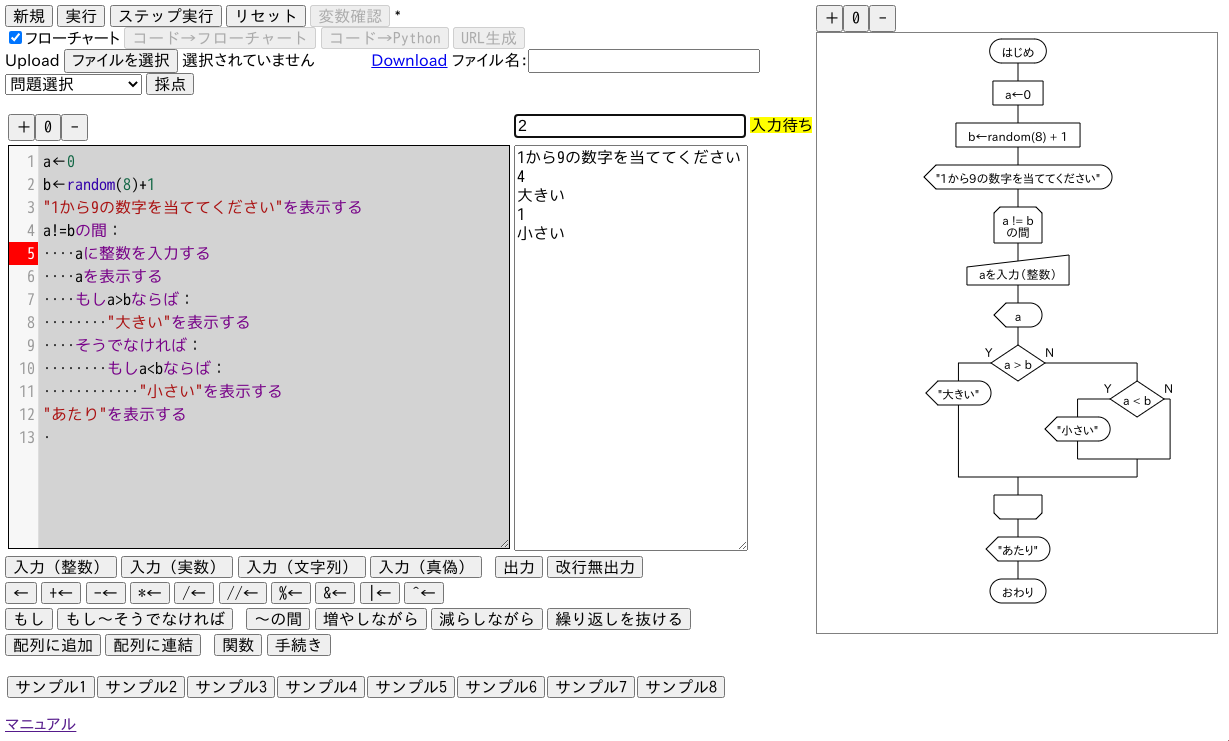
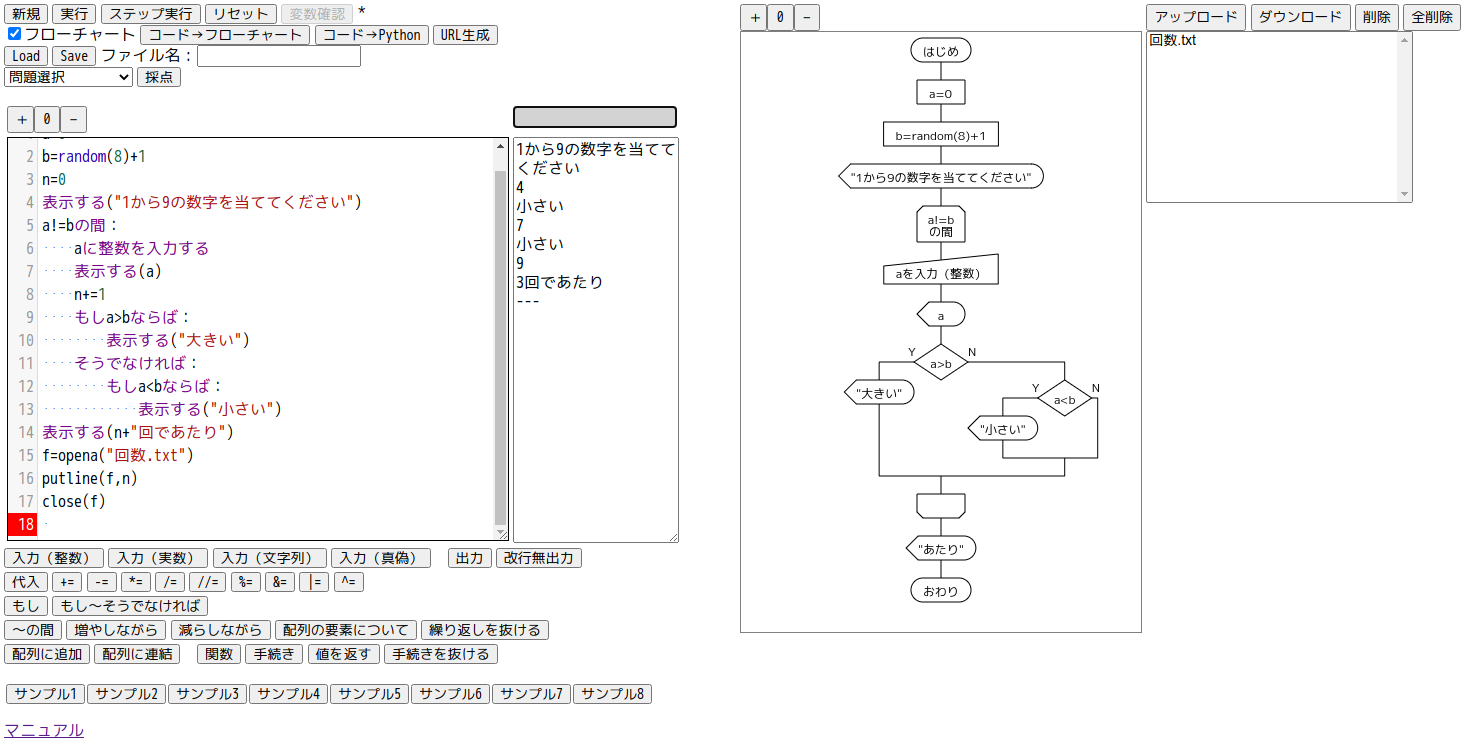
マニュアルの改訂。

diff --git a/manual/syntax.html b/manual/syntax.html
@@ -75,11 +75,12 @@
             <tr><td>exp(《実数》)</td><td>指数関数（底は自然対数の底）</td><td>exp(1)→2.718…</td></tr>
             <tr><td>pow(《実数》,《実数》)</td><td>累乗</td><td>pow(2,3)→8</td></tr>
             <tr><td>length(《文字列》)</td><td>文字列の長さ（文字数）</td><td>length("こんにちは")→5</td></tr>
-            <tr><td>length(《配列》)</td><td>配列の長さ</td><td>length({1,2,3,4,5})→5</td></tr>
+            <tr><td>length(《配列》)</td><td>配列の長さ</td><td>length([1,2,3,4,5])→5</td></tr>
             <tr><td>append(《文字列》,《文字列》)</td><td>文字列結合</td><td>append("Wa","PEN")→"WaPEN"</td></tr>
             <tr><td>substring(《文字列》,《開始位置》)</td><td>部分文字列（最後まで）</td><td>substring("こんにちは",2)→"にちは"</td></tr>
             <tr><td>substring(《文字列》,《開始位置》,《長さ》)</td><td>部分文字列（長さ指定）</td><td>substring("こんにちは",2,1)→"に"</td></tr>
-            <tr><td>split(《文字列》,《区切文字列》)</td><td>文字列分割</td><td>split("a:b:c:d",":")→"a","b],"c","d"（配列）</td></tr>
+            <tr><td>split(《文字列》)</td><td>文字列分割</td><td>split("abcd")→["a","b,"c","d"]（配列）</td></tr>
+            <tr><td>split(《文字列》,《区切文字列》)</td><td>文字列分割</td><td>split("a:b:c:d",":")→["a","b,"c","d"]（配列）</td></tr>
             <tr><td>extract(《文字列》,《区切文字列》,《番号》)</td><td>文字列分割（番号指定）</td><td>extract("a:b:c:d",":",2)→"c"</td></tr>
             <tr><td>insert(《文字列》,《位置》,《文字列》)</td><td>文字列挿入</td><td>insert("こんは",2,"にち")→"こんにちは"</td></tr>
             <tr><td>replace(《文字列》,《位置》,《長さ》,《文字列》)</td><td>文字列置換</td><td>replace("こんにちは",2,2,"ばん")→"こんばんは"</td></tr>
@@ -186,6 +187,21 @@ aに[7,8]を連結する
         </p>
         <p>"繰り返しを抜ける"命令で繰り返しから抜けることができる。</p>
         </div>
+        <h2>ファイル操作</h2>
+        <div class="part">
+        <table class="def_table" id="fileio">
+            <tr><th>関数・命令</th><th>意味</th></tr>
+            <tr><td>openr(《ファイル名》)</td><td>ファイルを読込用にオープンする。戻り値はファイル番号</td></tr>
+            <tr><td>openw(《ファイル名》)</td><td>ファイルを書込用にオープンする。戻り値はファイル番号</td></tr>
+            <tr><td>opena(《ファイル名》)</td><td>ファイルを追記用にオープンする。戻り値はファイル番号</td></tr>
+            <tr><td>getline(《ファイル番号》)</td><td>ファイルから1行読み込む。戻り値は文字列（改行含む）</td></tr>
+            <tr><td>getchar(《ファイル番号》)</td><td>ファイルから1文字読み込む。戻り値は文字列</td></tr>
+            <tr><td>putline(《ファイル番号》,《文字列》)</td><td>ファイルに文字列と改行を書き込む</td></tr>
+            <tr><td>putstr(《ファイル番号》,《文字列》)</td><td>ファイルに文字列と改行を書き込む</td></tr>
+            <tr><td>close(《ファイル番号》)</td><td>ファイルをクローズする</td></tr>
+        </table>
+        <p>書込・追記用ファイルはクローズしないと保存しないことに注意。</p>
+        </div>
         <h2>グラフィック関係などの命令</h2>
         <div class="part">
         <table class="def_table" id="function">
@@ -199,13 +215,13 @@ aに[7,8]を連結する
             <tr><td>線太さ設定(《太さ》)</td><td>gSetLineWidth</td><td></td></tr>
             <tr><td>文字サイズ設定(《サイズ》)</td><td>gSetTextSize</td><td></td></tr>
             <tr><td>文字描画(《文字列》,《x》,《y》)</td><td>gDrawText</td><td>(x,y)は文字列の左下の座標</td></tr>
-            <tr><td>点描画(《x1》,《y1》)</td><td>gDrawPoint</td><td></td></tr>
+            <tr><td>点描画(《x》,《y》)</td><td>gDrawPoint</td><td></td></tr>
             <tr><td>線描画(《x1》,《y1》,《x2》,《y2》)</td><td>gDrawLine</td><td></td></tr>
             <tr><td>矩形描画(《x》,《y》,《幅》,《高さ》)</td><td>gDrawBox</td><td>(x,y)は矩形の左上の座標</td></tr>
             <tr><td>矩形塗描画(《x》,《y》,《幅》,《高さ》)</td><td>gFillBox</td><td></td></tr>
-            <tr><td>円描画(《x》,《y》,《半径》)</td><td>gDrawCircle</td><td></td>(x,y)は中心の座標</tr>
+            <tr><td>円描画(《x》,《y》,《半径》)</td><td>gDrawCircle</td><td>(x,y)は中心の座標</td></tr>
             <tr><td>円塗描画(《x》,《y》,《半径》)</td><td>gFillCircle</td><td></td></tr>
-            <tr><td>楕円描画(《x》,《y》,《幅》,《高さ》)</td><td>gDrawOval</td><td></td>(x,y)は楕円に外接する長方形の左上の座標</tr>
+            <tr><td>楕円描画(《x》,《y》,《幅》,《高さ》)</td><td>gDrawOval</td><td>(x,y)は楕円に外接する長方形の左上の座標</td></tr>
             <tr><td>楕円塗描画(《x》,《y》,《幅》,《高さ》)</td><td>gFillOval</td><td></td></tr>
             <tr><td>弧描画(《x》,《y》,《幅》,《高さ》,《開始角》,《終了角》,《閉じ方》)</td><td>gDrawArc</td><td>(x,y)は楕円に外接する長方形の左上の座標<br>角度の単位は度<br>閉じ方は0:閉じない，1:弦，2:半径</td></tr>
             <tr><td>弧塗描画(《x》,《y》,《幅》,《高さ》,《開始角》,《終了角》,《閉じ方》)</td><td>gFillArc</td><td></td></tr>

diff --git a/manual/pypen.html b/manual/pypen.html
@@ -25,8 +25,8 @@
                 プログラムを編集したときはこのボタンを押さないとフローチャートが更新されません。
             </dd>
             <dt>コード→Python</dt><dd>プログラムをPythonに翻訳します。</dd>
-            <dt>Upload</dt><dd>「ファイルを選択」ボタンを押して，選んだファイルをプログラムとして読み込みます。</dd>
-            <dt>Download</dt><dd>「ファイル名」欄にファイル名（拡張子は除く）を書き込んでボタンを押すと，プログラムをダウンロードします。</dd>
+            <dt>Load</dt><dd>選んだファイルをプログラムとして読み込みます。</dd>
+            <dt>Save</dt><dd>「ファイル名」欄にファイル名（拡張子は除く）を書き込んでボタンを押すと，プログラムをダウンロードします。</dd>
             <dt>URL取得</dt><dd>プログラムを含んだURLを生成します。</dd>
             <dt>「入力（整数）」とかのボタン</dt><dd>入力支援ボタンです。このボタンを押すことで，構文通りの雛形がプログラムに挿入されますから，
                 必要な部分を書き換えてプログラムを作ることができます。</dd>
@@ -45,6 +45,16 @@
             </dd>
             <dt>スクロールしたいとき</dt><dd>どれかの部品を左クリックしてドラッグしてください。</dd>
         </dl>
+        </div>
+        <h2>ファイル</h2>
+        <div class="part">
+            <p>プログラムで読み書きするファイルを置くことができます。</p>
+            <dl>
+                <dt>アップロード</dt><dd>選んだファイルをアップロードできます（テキストファイルに限る）。</dd>
+                <dt>ダウンロード</dt><dd>選んだファイルをダウンロードできます。</dd>
+                <dt>削除</dt><dd>選んだファイルを削除します。</dd>
+                <dt>全削除</dt><dd>ファイルをすべて削除します。</dd>
+            </dl>
         </div>
         <h2>画面のスクリーンショット</h2>
         <p><img src="pypen.png" alt="スクリーンショット"></p>
